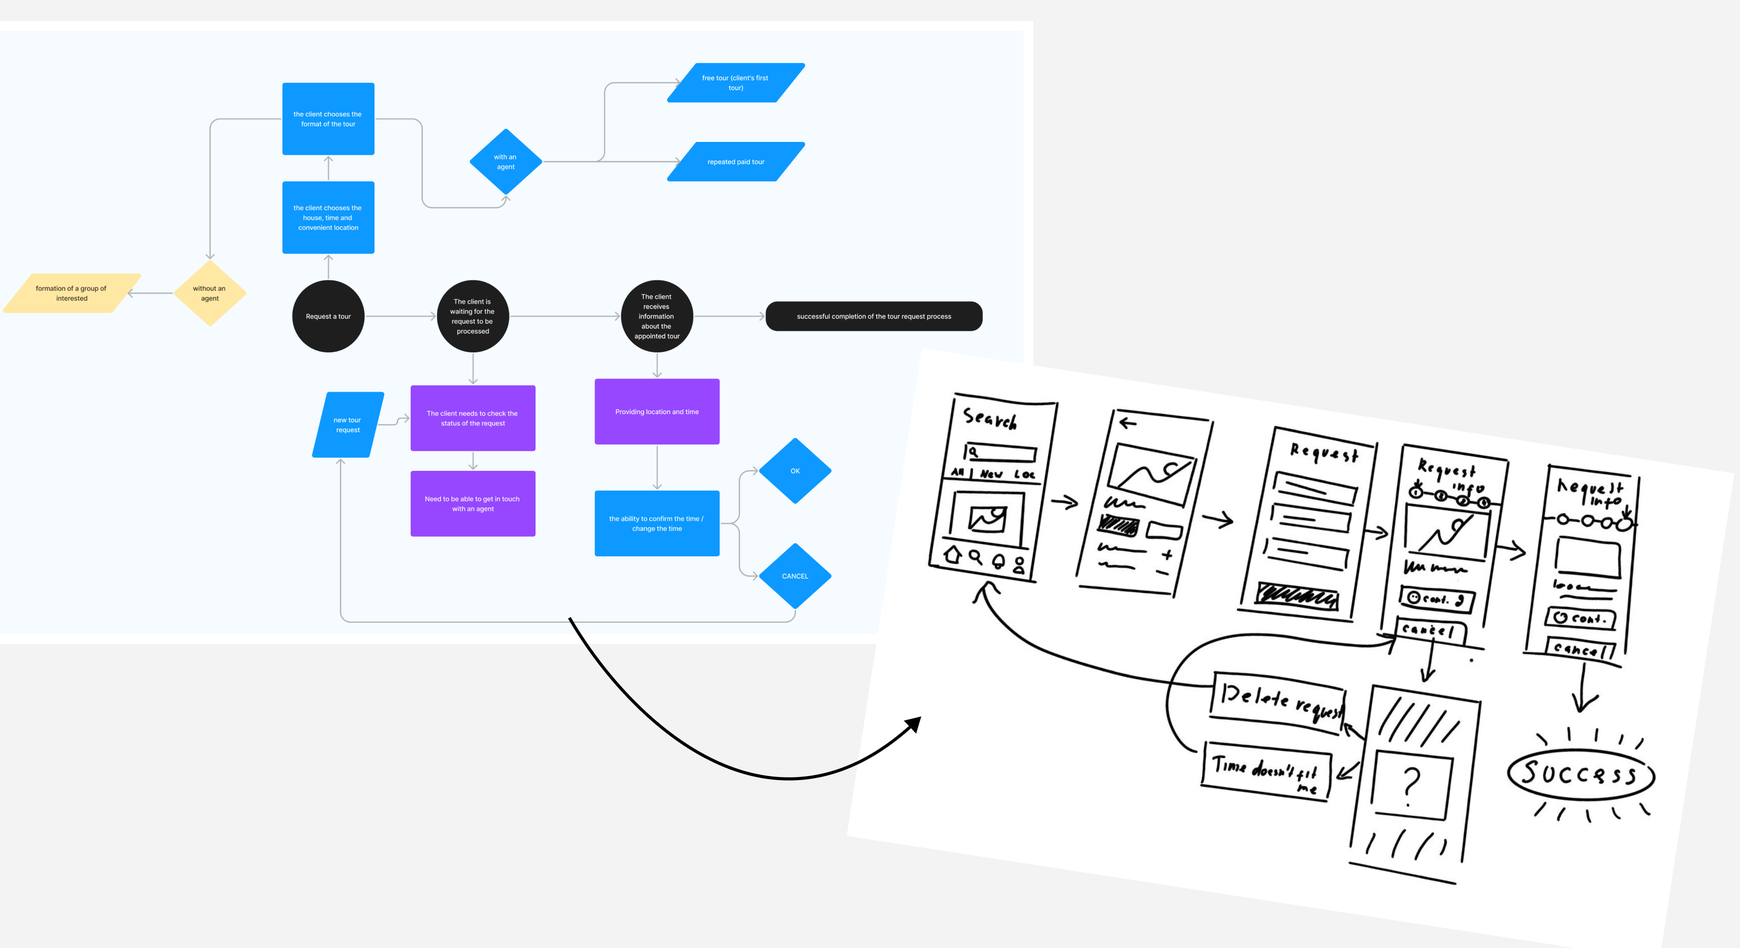
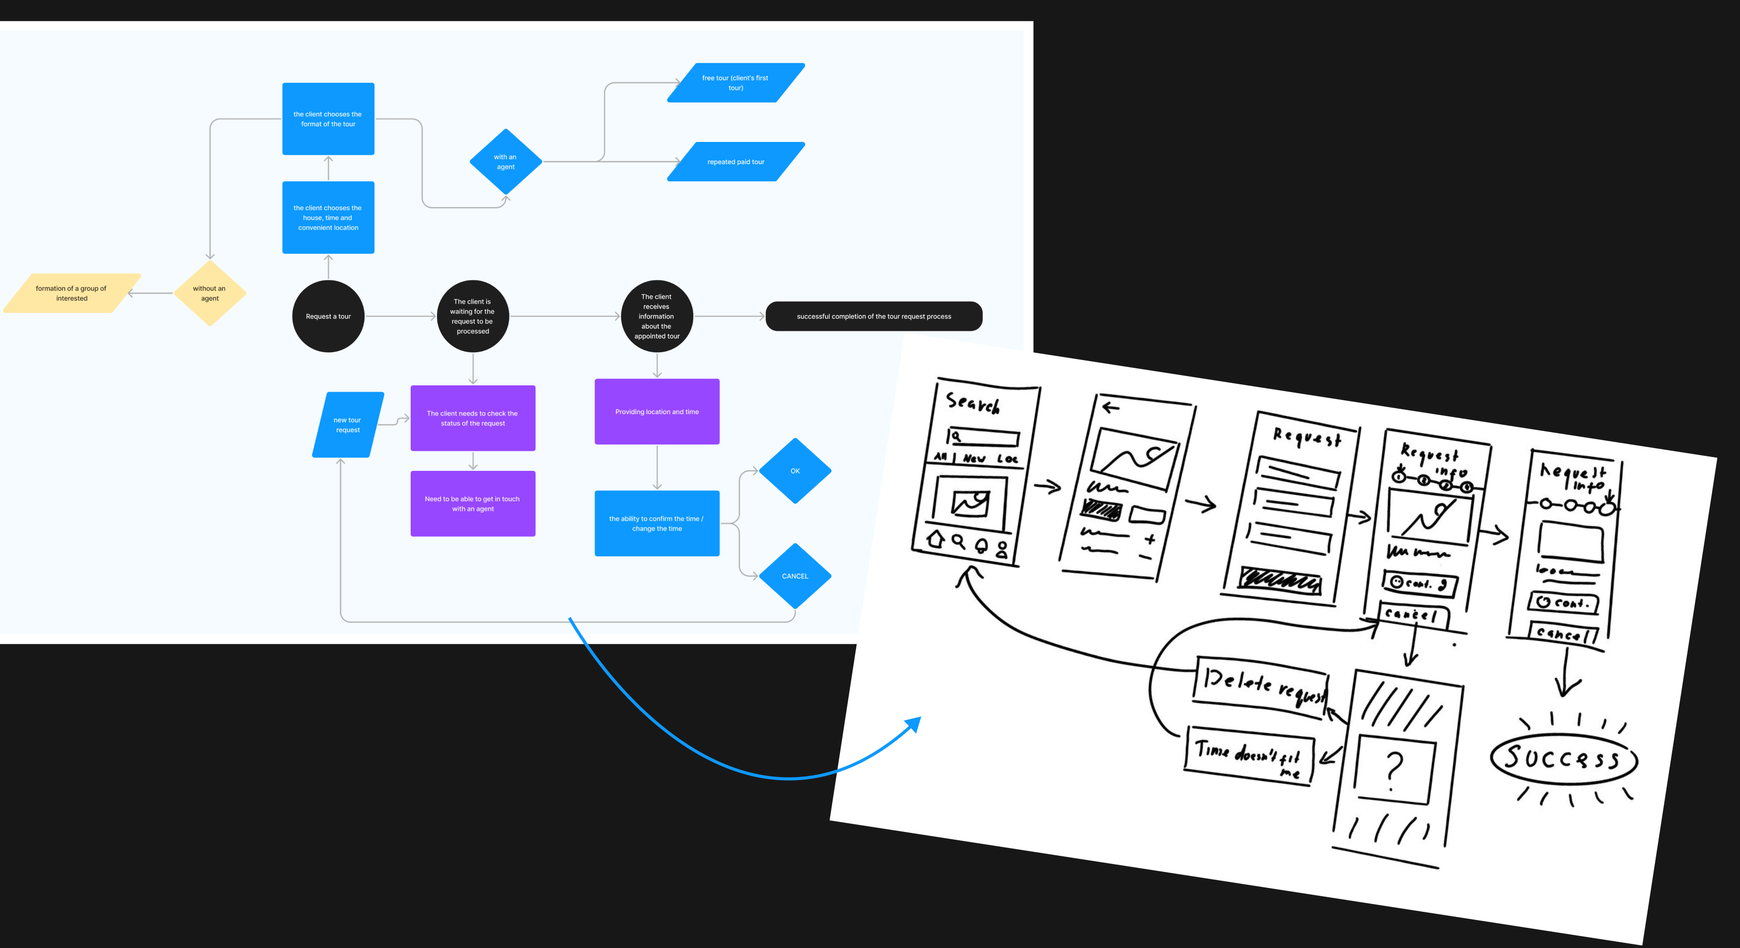
themes for kbs and mighty

diff --git a/themes/milalaveo/layouts/partials/logo.html b/themes/milalaveo/layouts/partials/logo.html
@@ -1,0 +1,5 @@
+<svg width="84" height="26" viewBox="0 0 84 26" fill="currentColor" xmlns="http://www.w3.org/2000/svg">
+    <path d="M0 5.67826L3.28944 2L17.0829 20.678H31.5218V25.0175H13.9774L0 5.67826Z" fill="currentColor"/>
+    <path d="M39.0452 24.8617C37.7707 24.8617 36.6201 24.5697 35.5934 23.9855C34.5845 23.4014 33.7791 22.596 33.1772 21.5693C32.5931 20.5249 32.301 19.3213 32.301 17.9583C32.301 16.5953 32.602 15.4005 33.2038 14.3738C33.8056 13.3294 34.611 12.5152 35.62 11.931C36.6467 11.3469 37.7972 11.0548 39.0717 11.0548C40.3285 11.0548 41.4614 11.3469 42.4703 11.931C43.497 12.5152 44.3024 13.3294 44.8866 14.3738C45.4884 15.4005 45.7893 16.5953 45.7893 17.9583C45.7893 19.3213 45.4884 20.5249 44.8866 21.5693C44.3024 22.596 43.497 23.4014 42.4703 23.9855C41.4437 24.5697 40.302 24.8617 39.0452 24.8617ZM39.0452 21.9145C39.9302 21.9145 40.7002 21.587 41.3552 20.9321C42.0101 20.2594 42.3376 19.2682 42.3376 17.9583C42.3376 16.6484 42.0101 15.666 41.3552 15.011C40.7002 14.3384 39.9391 14.0021 39.0717 14.0021C38.169 14.0021 37.3901 14.3384 36.7352 15.011C36.0979 15.666 35.7793 16.6484 35.7793 17.9583C35.7793 19.2682 36.0979 20.2594 36.7352 20.9321C37.3901 21.587 38.1601 21.9145 39.0452 21.9145ZM48.0315 24.5431V5.42586H51.4301V24.5431H48.0315ZM55.9383 9.32897C55.3188 9.32897 54.8054 9.14311 54.3983 8.77138C54.0089 8.39966 53.8142 7.93058 53.8142 7.36414C53.8142 6.7977 54.0089 6.33747 54.3983 5.98345C54.8054 5.61173 55.3188 5.42586 55.9383 5.42586C56.5578 5.42586 57.0623 5.61173 57.4517 5.98345C57.8589 6.33747 58.0624 6.7977 58.0624 7.36414C58.0624 7.93058 57.8589 8.39966 57.4517 8.77138C57.0623 9.14311 56.5578 9.32897 55.9383 9.32897ZM54.239 24.5431V11.3735H57.6376V24.5431H54.239ZM66.2563 24.5431C64.8756 24.5431 63.7693 24.2068 62.9374 23.5341C62.1054 22.8615 61.6894 21.6667 61.6894 19.9497V14.2145H59.4325V11.3735H61.6894L62.0877 7.84207H65.0881V11.3735H68.646V14.2145H65.0881V19.9762C65.0881 20.6135 65.2208 21.056 65.4863 21.3038C65.7696 21.5339 66.2475 21.649 66.9201 21.649H68.5663V24.5431H66.2563ZM75.3078 24.8617C74.1749 24.8617 73.2456 24.6847 72.5198 24.3307C71.7941 23.959 71.2542 23.4722 70.9002 22.8703C70.5462 22.2685 70.3692 21.6047 70.3692 20.879C70.3692 19.6576 70.8471 18.6663 71.8029 17.9052C72.7588 17.144 74.1926 16.7635 76.1043 16.7635H79.4498V16.4448C79.4498 15.5421 79.1932 14.8783 78.6798 14.4535C78.1665 14.0286 77.5293 13.8162 76.7681 13.8162C76.0778 13.8162 75.4759 13.9844 74.9626 14.3207C74.4493 14.6393 74.1306 15.1172 74.0067 15.7545H70.6878C70.7763 14.7986 71.0949 13.9667 71.6436 13.2586C72.2101 12.5506 72.9358 12.0107 73.8209 11.639C74.7059 11.2495 75.6972 11.0548 76.7947 11.0548C78.671 11.0548 80.149 11.5239 81.2288 12.4621C82.3086 13.4002 82.8485 14.7278 82.8485 16.4448V24.5431H79.9543L79.6357 22.419C79.2463 23.127 78.6975 23.7112 77.9895 24.1714C77.2992 24.6316 76.4052 24.8617 75.3078 24.8617ZM76.0778 22.2066C77.0513 22.2066 77.8036 21.8879 78.3347 21.2507C78.8834 20.6135 79.2286 19.8257 79.3702 18.8876H76.4761C75.5733 18.8876 74.9272 19.0557 74.5378 19.3921C74.1484 19.7107 73.9536 20.109 73.9536 20.5869C73.9536 21.1002 74.1484 21.4985 74.5378 21.7817C74.9272 22.0649 75.4405 22.2066 76.0778 22.2066Z" fill="currentColor"/>
+    <path d="M35.5934 23.9855L35.393 24.3317L35.3956 24.3332L35.5934 23.9855ZM33.1772 21.5693L32.8281 21.7646L32.8322 21.7716L33.1772 21.5693ZM33.2038 14.3738L33.5489 14.5761L33.5504 14.5735L33.2038 14.3738ZM35.62 11.931L35.4222 11.5834L35.4196 11.5849L35.62 11.931ZM42.4703 11.931L42.2699 12.2772L42.2725 12.2787L42.4703 11.931ZM44.8866 14.3738L44.5374 14.5691L44.5415 14.5761L44.8866 14.3738ZM44.8866 21.5693L44.54 21.3696L44.5389 21.3715L44.8866 21.5693ZM42.4703 23.9855L42.2725 23.6379L42.4703 23.9855ZM41.3552 20.9321L41.638 21.2149L41.6418 21.2111L41.3552 20.9321ZM41.3552 15.011L41.0686 15.2901L41.0723 15.2939L41.3552 15.011ZM36.7352 15.011L36.4486 14.732L36.4485 14.7321L36.7352 15.011ZM36.7352 20.9321L36.4447 21.2073L36.4523 21.2149L36.7352 20.9321ZM39.0452 24.4617C37.8344 24.4617 36.7529 24.185 35.7913 23.6379L35.3956 24.3332C36.4873 24.9543 37.707 25.2617 39.0452 25.2617V24.4617ZM35.7939 23.6393C34.846 23.0906 34.0899 22.3353 33.5223 21.367L32.8322 21.7716C33.4682 22.8566 34.3229 23.7122 35.393 24.3317L35.7939 23.6393ZM33.5263 21.3741C32.98 20.3972 32.701 19.2625 32.701 17.9583H31.901C31.901 19.38 32.2062 20.6527 32.8281 21.7646L33.5263 21.3741ZM32.701 17.9583C32.701 16.6559 32.988 15.5329 33.5489 14.5761L32.8587 14.1715C32.2159 15.268 31.901 16.5347 31.901 17.9583H32.701ZM33.5504 14.5735C34.1184 13.5878 34.8743 12.825 35.8204 12.2772L35.4196 11.5849C34.3478 12.2054 33.4929 13.0711 32.8572 14.1741L33.5504 14.5735ZM35.8178 12.2787C36.7795 11.7316 37.861 11.4548 39.0717 11.4548V10.6548C37.7335 10.6548 36.5139 10.9622 35.4222 11.5834L35.8178 12.2787ZM39.0717 11.4548C40.2638 11.4548 41.3266 11.7311 42.2699 12.2772L42.6708 11.5849C41.5962 10.9627 40.3932 10.6548 39.0717 10.6548V11.4548ZM42.2725 12.2787C43.235 12.8263 43.9884 13.5875 44.5374 14.5691L45.2357 14.1785C44.6164 13.0714 43.7591 12.2041 42.6682 11.5834L42.2725 12.2787ZM44.5415 14.5761C45.1024 15.5329 45.3893 16.6559 45.3893 17.9583H46.1893C46.1893 16.5347 45.8744 15.268 45.2316 14.1715L44.5415 14.5761ZM45.3893 17.9583C45.3893 19.2605 45.1024 20.3936 44.54 21.3696L45.2331 21.769C45.8744 20.6563 46.1893 19.382 46.1893 17.9583H45.3893ZM44.5389 21.3715C43.9903 22.3357 43.2367 23.0893 42.2725 23.6379L42.6682 24.3332C43.7573 23.7135 44.6145 22.8563 45.2342 21.7671L44.5389 21.3715ZM42.2725 23.6379C41.31 24.1855 40.2372 24.4617 39.0452 24.4617V25.2617C40.3667 25.2617 41.5773 24.9538 42.6682 24.3332L42.2725 23.6379ZM39.0452 22.3145C40.0417 22.3145 40.9119 21.941 41.638 21.2149L41.0723 20.6492C40.4885 21.233 39.8188 21.5145 39.0452 21.5145V22.3145ZM41.6418 21.2111C42.3941 20.4385 42.7376 19.3307 42.7376 17.9583H41.9376C41.9376 19.2056 41.6261 20.0804 41.0686 20.653L41.6418 21.2111ZM42.7376 17.9583C42.7376 16.5867 42.3944 15.4846 41.638 14.7282L41.0723 15.2939C41.6258 15.8474 41.9376 16.7101 41.9376 17.9583H42.7376ZM41.6418 14.732C40.9184 13.9891 40.0565 13.6021 39.0717 13.6021V14.4021C39.8217 14.4021 40.4821 14.6877 41.0686 15.2901L41.6418 14.732ZM39.0717 13.6021C38.0563 13.6021 37.1755 13.9855 36.4486 14.732L37.0218 15.2901C37.6048 14.6913 38.2816 14.4021 39.0717 14.4021V13.6021ZM36.4485 14.7321C35.7122 15.4888 35.3793 16.5894 35.3793 17.9583H36.1793C36.1793 16.7073 36.4837 15.8431 37.0219 15.29L36.4485 14.7321ZM35.3793 17.9583C35.3793 19.328 35.7126 20.4343 36.4448 21.2072L37.0256 20.657C36.4833 20.0846 36.1793 19.2083 36.1793 17.9583H35.3793ZM36.4523 21.2149C37.1784 21.941 38.0487 22.3145 39.0452 22.3145V21.5145C38.2716 21.5145 37.6018 21.233 37.018 20.6492L36.4523 21.2149ZM48.0315 24.5431H47.6315V24.9431H48.0315V24.5431ZM48.0315 5.42586V5.02586H47.6315V5.42586H48.0315ZM51.4301 5.42586H51.8301V5.02586H51.4301V5.42586ZM51.4301 24.5431V24.9431H51.8301V24.5431H51.4301ZM48.4315 24.5431V5.42586H47.6315V24.5431H48.4315ZM48.0315 5.82586H51.4301V5.02586H48.0315V5.82586ZM51.0301 5.42586V24.5431H51.8301V5.42586H51.0301ZM51.4301 24.1431H48.0315V24.9431H51.4301V24.1431ZM54.3983 8.77138L54.122 9.06079L54.1286 9.06678L54.3983 8.77138ZM54.3983 5.98345L54.6674 6.27943L54.668 6.27884L54.3983 5.98345ZM57.4517 5.98345L57.1756 6.27279L57.1823 6.2792L57.1893 6.28529L57.4517 5.98345ZM57.4517 8.77138L57.182 8.47591L57.1756 8.48204L57.4517 8.77138ZM54.239 24.5431H53.839V24.9431H54.239V24.5431ZM54.239 11.3735V10.9735H53.839V11.3735H54.239ZM57.6376 11.3735H58.0376V10.9735H57.6376V11.3735ZM57.6376 24.5431V24.9431H58.0376V24.5431H57.6376ZM55.9383 8.92897C55.4053 8.92897 54.9922 8.77195 54.668 8.47599L54.1286 9.06678C54.6187 9.51426 55.2323 9.72897 55.9383 9.72897V8.92897ZM54.6745 8.48204C54.3686 8.19009 54.2142 7.82765 54.2142 7.36414H53.4142C53.4142 8.0335 53.6491 8.60922 54.1221 9.06072L54.6745 8.48204ZM54.2142 7.36414C54.2142 6.90075 54.3682 6.55138 54.6674 6.27943L54.1292 5.68747C53.6495 6.12356 53.4142 6.69466 53.4142 7.36414H54.2142ZM54.668 6.27884C54.9922 5.98288 55.4053 5.82586 55.9383 5.82586V5.02586C55.2323 5.02586 54.6187 5.24057 54.1286 5.68806L54.668 6.27884ZM55.9383 5.82586C56.4717 5.82586 56.8718 5.98284 57.1756 6.27279L57.7279 5.69411C57.2528 5.24061 56.644 5.02586 55.9383 5.02586V5.82586ZM57.1893 6.28529C57.5042 6.55913 57.6624 6.9069 57.6624 7.36414H58.4624C58.4624 6.68851 58.2135 6.11581 57.7142 5.68161L57.1893 6.28529ZM57.6624 7.36414C57.6624 7.82169 57.5036 8.18238 57.182 8.47599L57.7214 9.06678C58.2141 8.61693 58.4624 8.03947 58.4624 7.36414H57.6624ZM57.1756 8.48204C56.8718 8.77199 56.4717 8.92897 55.9383 8.92897V9.72897C56.644 9.72897 57.2528 9.51422 57.7279 9.06072L57.1756 8.48204ZM54.639 24.5431V11.3735H53.839V24.5431H54.639ZM54.239 11.7735H57.6376V10.9735H54.239V11.7735ZM57.2376 11.3735V24.5431H58.0376V11.3735H57.2376ZM57.6376 24.1431H54.239V24.9431H57.6376V24.1431ZM62.9374 23.5341L63.1889 23.2231L62.9374 23.5341ZM61.6894 14.2145H62.0894V13.8145H61.6894V14.2145ZM59.4325 14.2145H59.0325V14.6145H59.4325V14.2145ZM59.4325 11.3735V10.9735H59.0325V11.3735H59.4325ZM61.6894 11.3735V11.7735H62.0469L62.0869 11.4183L61.6894 11.3735ZM62.0877 7.84207V7.44207H61.7303L61.6902 7.79724L62.0877 7.84207ZM65.0881 7.84207H65.4881V7.44207H65.0881V7.84207ZM65.0881 11.3735H64.6881V11.7735H65.0881V11.3735ZM68.646 11.3735H69.046V10.9735H68.646V11.3735ZM68.646 14.2145V14.6145H69.046V14.2145H68.646ZM65.0881 14.2145V13.8145H64.6881V14.2145H65.0881ZM65.4863 21.3038L65.2134 21.5962L65.2234 21.6056L65.2341 21.6142L65.4863 21.3038ZM68.5663 21.649H68.9663V21.249H68.5663V21.649ZM68.5663 24.5431V24.9431H68.9663V24.5431H68.5663ZM66.2563 24.1431C64.9402 24.1431 63.9312 23.8232 63.1889 23.2231L62.6859 23.8452C63.6075 24.5903 64.8111 24.9431 66.2563 24.9431V24.1431ZM63.1889 23.2231C62.4956 22.6626 62.0894 21.6185 62.0894 19.9497H61.2894C61.2894 21.7148 61.7152 23.0604 62.6859 23.8452L63.1889 23.2231ZM62.0894 19.9497V14.2145H61.2894V19.9497H62.0894ZM61.6894 13.8145H59.4325V14.6145H61.6894V13.8145ZM59.8325 14.2145V11.3735H59.0325V14.2145H59.8325ZM59.4325 11.7735H61.6894V10.9735H59.4325V11.7735ZM62.0869 11.4183L62.4852 7.8869L61.6902 7.79724L61.292 11.3286L62.0869 11.4183ZM62.0877 8.24207H65.0881V7.44207H62.0877V8.24207ZM64.6881 7.84207V11.3735H65.4881V7.84207H64.6881ZM65.0881 11.7735H68.646V10.9735H65.0881V11.7735ZM68.246 11.3735V14.2145H69.046V11.3735H68.246ZM68.646 13.8145H65.0881V14.6145H68.646V13.8145ZM64.6881 14.2145V19.9762H65.4881V14.2145H64.6881ZM64.6881 19.9762C64.6881 20.6462 64.8234 21.2323 65.2134 21.5962L65.7593 21.0114C65.6182 20.8797 65.4881 20.5807 65.4881 19.9762H64.6881ZM65.2341 21.6142C65.6278 21.9341 66.2236 22.049 66.9201 22.049V21.249C66.2713 21.249 65.9113 21.1337 65.7386 20.9934L65.2341 21.6142ZM66.9201 22.049H68.5663V21.249H66.9201V22.049ZM68.1663 21.649V24.5431H68.9663V21.649H68.1663ZM68.5663 24.1431H66.2563V24.9431H68.5663V24.1431ZM72.5198 24.3307L72.3375 24.6868L72.3445 24.6902L72.5198 24.3307ZM70.9002 22.8703L70.5554 23.0732L70.9002 22.8703ZM71.8029 17.9052L72.0521 18.2181L71.8029 17.9052ZM79.4498 16.7635V17.1635H79.8498V16.7635H79.4498ZM78.6798 14.4535L78.9349 14.1453L78.6798 14.4535ZM74.9626 14.3207L75.1736 14.6607L75.1818 14.6553L74.9626 14.3207ZM74.0067 15.7545V16.1545H74.3365L74.3994 15.8308L74.0067 15.7545ZM70.6878 15.7545L70.2895 15.7176L70.249 16.1545H70.6878V15.7545ZM71.6436 13.2586L71.3313 13.0087L71.3275 13.0136L71.6436 13.2586ZM73.8209 11.639L73.9758 12.0078L73.982 12.0051L73.8209 11.639ZM81.2288 12.4621L80.9665 12.764L81.2288 12.4621ZM82.8485 24.5431V24.9431H83.2485V24.5431H82.8485ZM79.9543 24.5431L79.5588 24.6024L79.6099 24.9431H79.9543V24.5431ZM79.6357 22.419L80.0313 22.3596L79.8557 21.189L79.2852 22.2262L79.6357 22.419ZM77.9895 24.1714L77.7715 23.836L77.7676 23.8386L77.9895 24.1714ZM78.3347 21.2507L78.0315 20.9896L78.0274 20.9946L78.3347 21.2507ZM79.3702 18.8876L79.7657 18.9473L79.8351 18.4876H79.3702V18.8876ZM74.5378 19.3921L74.7912 19.7018L74.7992 19.6948L74.5378 19.3921ZM74.5378 21.7817L74.773 21.4582L74.5378 21.7817ZM75.3078 24.4617C74.2127 24.4617 73.3489 24.2901 72.6952 23.9712L72.3445 24.6902C73.1423 25.0794 74.1371 25.2617 75.3078 25.2617V24.4617ZM72.7022 23.9747C72.0325 23.6317 71.5544 23.1936 71.245 22.6675L70.5554 23.0732C70.954 23.7508 71.5557 24.2863 72.3375 24.6867L72.7022 23.9747ZM71.245 22.6675C70.9286 22.1297 70.7692 21.5363 70.7692 20.879H69.9692C69.9692 21.6731 70.1638 22.4074 70.5554 23.0732L71.245 22.6675ZM70.7692 20.879C70.7692 19.7795 71.1915 18.9034 72.0521 18.2181L71.5538 17.5923C70.5027 18.4293 69.9692 19.5357 69.9692 20.879H70.7692ZM72.0521 18.2181C72.907 17.5374 74.235 17.1635 76.1043 17.1635V16.3635C74.1502 16.3635 72.6106 16.7507 71.5538 17.5923L72.0521 18.2181ZM76.1043 17.1635H79.4498V16.3635H76.1043V17.1635ZM79.8498 16.7635V16.4448H79.0498V16.7635H79.8498ZM79.8498 16.4448C79.8498 15.4677 79.5697 14.6707 78.9349 14.1453L78.4248 14.7616C78.8166 15.0859 79.0498 15.6164 79.0498 16.4448H79.8498ZM78.9349 14.1453C78.3397 13.6527 77.6084 13.4162 76.7681 13.4162V14.2162C77.4502 14.2162 77.9933 14.4045 78.4248 14.7616L78.9349 14.1453ZM76.7681 13.4162C76.0099 13.4162 75.3298 13.6019 74.7434 13.9861L75.1818 14.6553C75.6221 14.3668 76.1456 14.2162 76.7681 14.2162V13.4162ZM74.7517 13.9808C74.1361 14.3629 73.7575 14.9407 73.6141 15.6781L74.3994 15.8308C74.5038 15.2938 74.7624 14.9157 75.1735 14.6605L74.7517 13.9808ZM74.0067 15.3545H70.6878V16.1545H74.0067V15.3545ZM71.0861 15.7914C71.1681 14.9056 71.4611 14.1472 71.9598 13.5037L71.3275 13.0136C70.7287 13.7861 70.3845 14.6916 70.2895 15.7176L71.0861 15.7914ZM71.956 13.5085C72.4782 12.8557 73.1486 12.3552 73.9758 12.0078L73.666 11.2702C72.7231 11.6662 71.9419 12.2455 71.3313 13.0087L71.956 13.5085ZM73.982 12.0051C74.8098 11.6408 75.7452 11.4548 76.7947 11.4548V10.6548C75.6492 10.6548 74.602 10.8583 73.6598 11.2728L73.982 12.0051ZM76.7947 11.4548C78.6052 11.4548 79.9796 11.9066 80.9665 12.764L81.4912 12.1601C80.3184 11.1412 78.7368 10.6548 76.7947 10.6548V11.4548ZM80.9665 12.764C81.9413 13.611 82.4485 14.8182 82.4485 16.4448H83.2485C83.2485 14.6374 82.6759 13.1895 81.4912 12.1601L80.9665 12.764ZM82.4485 16.4448V24.5431H83.2485V16.4448H82.4485ZM82.8485 24.1431H79.9543V24.9431H82.8485V24.1431ZM80.3499 24.4838L80.0313 22.3596L79.2401 22.4783L79.5588 24.6024L80.3499 24.4838ZM79.2852 22.2262C78.929 22.8739 78.4269 23.41 77.7715 23.836L78.2075 24.5068C78.9682 24.0123 79.5636 23.3801 79.9862 22.6117L79.2852 22.2262ZM77.7676 23.8386C77.1611 24.2429 76.3513 24.4617 75.3078 24.4617V25.2617C76.4592 25.2617 77.4372 25.0203 78.2114 24.5042L77.7676 23.8386ZM76.0778 22.6066C77.1471 22.6066 78.0214 22.2514 78.642 21.5068L78.0274 20.9946C77.5859 21.5244 76.9555 21.8066 76.0778 21.8066V22.6066ZM78.6378 21.5117C79.2418 20.8103 79.6143 19.9501 79.7657 18.9473L78.9747 18.8279C78.8428 19.7014 78.5251 20.4166 78.0316 20.9897L78.6378 21.5117ZM79.3702 18.4876H76.4761V19.2876H79.3702V18.4876ZM76.4761 18.4876C75.5429 18.4876 74.7761 18.6577 74.2763 19.0893L74.7992 19.6948C75.0783 19.4538 75.6037 19.2876 76.4761 19.2876V18.4876ZM74.2845 19.0825C73.8078 19.4725 73.5536 19.9819 73.5536 20.5869H74.3536C74.3536 20.236 74.4889 19.9489 74.7911 19.7017L74.2845 19.0825ZM73.5536 20.5869C73.5536 21.2183 73.8018 21.7411 74.3025 22.1052L74.773 21.4582C74.4949 21.2559 74.3536 20.9822 74.3536 20.5869H73.5536ZM74.3025 22.1052C74.7794 22.452 75.3831 22.6066 76.0778 22.6066V21.8066C75.498 21.8066 75.075 21.6779 74.773 21.4582L74.3025 22.1052Z" fill="currentColor"/>
+</svg>

diff --git a/themes/milalaveo/assets/css/style.css b/themes/milalaveo/assets/css/style.css
@@ -1,5 +1,6 @@
 :root {
     --main-black: #181717;
+    --secondary-black: #0D0D0D;
     --secondary: #2429AF;
     --secondary-2: #3A40D3;
     --main-gray: #606060;
@@ -12,13 +13,32 @@
     --button-secondary: var(--main-black);
     --button-secondary-hover: var(--secondary-2);
     --button-secondary-pressed: var(--secondary);
+    /*default site colors. can be changed by themes*/
+    --font-color: var(--main-black);
+    --background-color: var(--background);
+    --footer-copy-color: var(--secondary-2);
 }
 
 html {
     font-family: "Mulish", sans-serif;
     font-size: 16px;
-    color: var(--main-black);
-    background-color: var(--background);
+}
+
+body {
+    color: var(--font-color);
+    background-color: var(--background-color);
+}
+
+body.kbs {
+    --background-color: var(--secondary-black);
+    --font-color: var(--background);
+    --footer-copy-color: var(--background);
+}
+
+body.mighty {
+    --background-color: var(--main-black);
+    --font-color: var(--background);
+    --footer-copy-color: var(--background);
 }
 
 @keyframes marquee {
@@ -181,6 +201,11 @@ a:active {
     margin-left: 0;
 }
 
+.button-arrow {
+    margin: 0 1.5rem;
+    vertical-align: middle;
+}
+
 .project__show-more-heading {
     line-height: 48px;
 }
@@ -199,6 +224,14 @@ a:active {
 
 .header {
     margin-bottom: 64px;
+}
+
+.header .logo {
+    line-height: 42px;
+}
+
+.header .logo svg {
+    vertical-align: middle;
 }
 
 .header__icon a {
@@ -227,50 +260,70 @@ a:active {
     letter-spacing: initial;
 }
 
-.burger-trigger {
+.burger__trigger {
     z-index: 99;
     display: inline;
     position: relative;
     appearance: none;
 }
 
-.burger-trigger::after {
-    content: "";
-    display: inline-block;
-    width: 36px;
-    height: 36px;
-    background-image: url("/images/burger.svg");
-    background-size: contain;
+.burger__trigger input {
+    display: none;
 }
 
-.burger-trigger:checked::after {
-    background-image: url("/images/cross.svg");
+.button__label {
+    position: relative;
+    z-index: 99;
+    display: block;
+    height: 42px;
 }
 
-.burger-trigger:checked ~ .burger-navigation {
+.button__label svg {
+    position: absolute;
+    right: 0;
+    transition: opacity 0.2s;
+}
+
+.burger__trigger ~ .button__label .burger-icon {
+    opacity: 1;
+}
+
+.burger__trigger ~ .button__label .cross-icon {
+    opacity: 0;
+}
+
+.burger__trigger:checked ~ .button__label .burger-icon {
+    opacity: 0;
+}
+
+.burger__trigger:checked ~ .button__label .cross-icon {
+    opacity: 1;
+}
+
+.burger__trigger:checked ~ .burger__navigation {
     transform: translateX(0);
 }
 
-.burger-navigation {
+.burger__navigation {
     position: fixed;
     top: 0;
     left: 0;
     width: 100%;
     height: 100%;
     z-index: 80;
-    background-color: var(--background);
+    background-color: var(--background-color);
     padding: 88px 24px 0;
     transform: translateX(100%);
     transition: transform 0.3s;
 }
 
-.burger-navigation li {
+.burger__navigation li {
     display: block;
     text-align: left;
     margin-bottom: 24px;
 }
 
-.burger-navigation li:last-of-type {
+.burger__navigation li:last-of-type {
     margin-bottom: 0;
 }
 
@@ -404,13 +457,13 @@ a:active {
 
 .footer__copyright-text {
     margin: 0;
-    color: var(--secondary-2);
+    color: var(--footer-copy-color);
 }
 
 hr {
     border: none;
     margin: 64px auto;
-    background-color: var(--main-black);
+    background-color: var(--font-color);
     height: 1px;
 }
 
@@ -541,14 +594,20 @@ picture figcaption {
         margin-bottom: 120px;
     }
 
-    .burger-navigation {
+    .header .logo {
+        line-height: initial;
+    }
+
+    .burger__navigation {
         position: static;
         padding: 0;
         transform: none;
+        background: none;
     }
 
-    .burger-navigation li {
+    .burger__navigation li {
         display: inline-block;
+        margin-bottom: 0;
     }
 
     .hero {

diff --git a/themes/milalaveo/layouts/partials/header.html b/themes/milalaveo/layouts/partials/header.html
@@ -1,10 +1,14 @@
 <header class="row header">
     <div class="col-6 header__icon">
-        <a href="/" class="logo"><img src="/images/logo.svg" alt="Lolita"></a>
+        <a href="/" class="logo" aria-label="logo">{{ partial "logo" . }}</a>
     </div>
-    <nav class="col-6 header__navigation">
-        <input role="button" class="burger-trigger d-sm-none" type="checkbox" name="burger" id="header-burger">
-        <ul class="navigation__list burger-navigation">
+    <nav class="col-6 header__navigation burger">
+        <input id="burger__button" class="d-sm-none burger__trigger" type="checkbox" name="burger">
+        <label for="burger__button" class="d-sm-none button__label">
+            {{ partial "burger" . }}
+            {{ partial "cross-icon" . }}
+        </label>
+        <ul class="navigation__list burger__navigation">
             {{ range .Site.Menus.main }}
             <li><a href="{{ .URL }}">{{ .Name }}</a></li>&#10;&#13;
             {{ end }}

diff --git a/layouts/projects/single.html b/layouts/projects/single.html
@@ -15,7 +15,7 @@
     {{ .Content }}
     {{ with .Params.reference }}
         {{ $referencePage := $.Site.GetPage . }}
-        <h4 class="project__show-more-heading">please check this work <img class="project__show-more-arrow" src="/images/button-arrow-dark.svg" alt="show more"> <a href="{{ $referencePage.RelPermalink }}" target="_blank">{{ $referencePage.Title }}</a></h4>
+        <h4 class="project__show-more-heading">please check this work {{ partial "button-arrow" . }} <a href="{{ $referencePage.RelPermalink }}" target="_blank">{{ $referencePage.Title }}</a></h4>
     {{ end }}
 </main>
 {{ end }}

diff --git a/themes/milalaveo/layouts/partials/button-arrow.html b/themes/milalaveo/layouts/partials/button-arrow.html
@@ -1,0 +1,3 @@
+<svg class="button-arrow" width="48" height="48" viewBox="0 0 48 48" fill="currentColor" xmlns="http://www.w3.org/2000/svg">
+    <path fill-rule="evenodd" clip-rule="evenodd" d="M32.9413 10.9395L44.9413 22.9395L46.002 24.0001L44.9413 25.0608L32.9413 37.0608L30.82 34.9395L40.2593 25.5001H5.99854V22.5001H40.2593L30.82 13.0608L32.9413 10.9395Z" fill="currentColor"/>
+</svg>

diff --git a/themes/milalaveo/layouts/_default/baseof.html b/themes/milalaveo/layouts/_default/baseof.html
@@ -2,7 +2,7 @@
 {{ $app := resources.Get "/js/script.js" | fingerprint "sha512" }}
 <html lang="{{ site.LanguageCode }}">
     {{- partial "head.html" . -}}
-    <body>
+    <body {{ with .Params.theme }}class="{{ . }}"{{ end }}>
     <div class="container content">
         {{- partial "header.html" . -}}
         {{- block "main" . }}{{- end }}

diff --git a/themes/milalaveo/assets/js/script.js b/themes/milalaveo/assets/js/script.js
@@ -1,5 +1,5 @@
 document.addEventListener('DOMContentLoaded', function () {
-  var burgers = document.getElementsByClassName('burger-trigger');
+  var burgers = document.getElementsByClassName('burger__trigger');
 
   for (var i = 0; i < burgers.length; i++) {
     burgers[i].addEventListener('change', function (e) {

diff --git a/themes/milalaveo/layouts/partials/burger.html b/themes/milalaveo/layouts/partials/burger.html
@@ -1,0 +1,3 @@
+<svg class="burger-icon" width="42" height="42" viewBox="0 0 42 42" fill="currentColor" xmlns="http://www.w3.org/2000/svg">
+    <path id="Vector" d="M5.25 10.5H36.75M5.25 21H36.75M5.25 31.5H36.75" stroke="currentColor" stroke-width="3.5" stroke-linecap="round" stroke-linejoin="round"/>
+</svg>

diff --git a/themes/milalaveo/layouts/partials/cross-icon.html b/themes/milalaveo/layouts/partials/cross-icon.html
@@ -1,0 +1,3 @@
+<svg class="cross-icon" width="42" height="42" viewBox="0 0 24 24" fill="currentColor" xmlns="http://www.w3.org/2000/svg">
+    <path id="Vector" d="M2.40002 2.3999L21.6 21.5999M2.40002 21.5999L21.6 2.3999" stroke="currentColor" stroke-width="2"/>
+</svg>

diff --git a/content/projects/mightybuildings/index.md b/content/projects/mightybuildings/index.md
@@ -3,6 +3,7 @@ title: "Mighty Buildings - Beautiful, Sustainable Homes for All"
 description: "Revolutionary combination of 3D printing technology, advanced materials, and robotic automation brings to life the vision of beautiful and sustainable homes"
 subtitle: "UX/UI Design, Prototyping, User Research, SaaS"
 reference: "epamanywhere"
+theme: "mighty"
 date: 2023-07-16T15:57:01+02:00
 draft: false
 ---

diff --git a/content/projects/kbs/index.md b/content/projects/kbs/index.md
@@ -4,6 +4,7 @@ date: 2023-07-20T19:10:44+02:00
 description: "kbs on air is specifically designed for quick and easy access to audio services for KBS WORLD Radio’s programs available in 11 languages"
 subtitle: "UX/UI Design, Prototyping"
 reference: "anywhere-design-system"
+theme: "kbs"
 draft: false
 ---
 {{< row >}}
